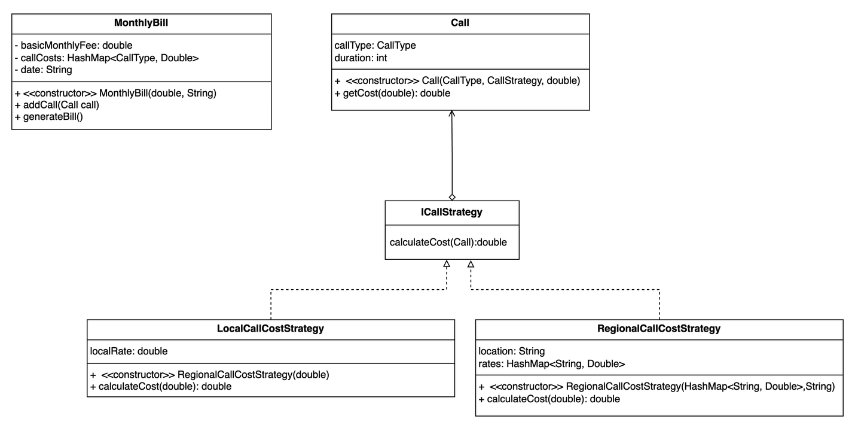
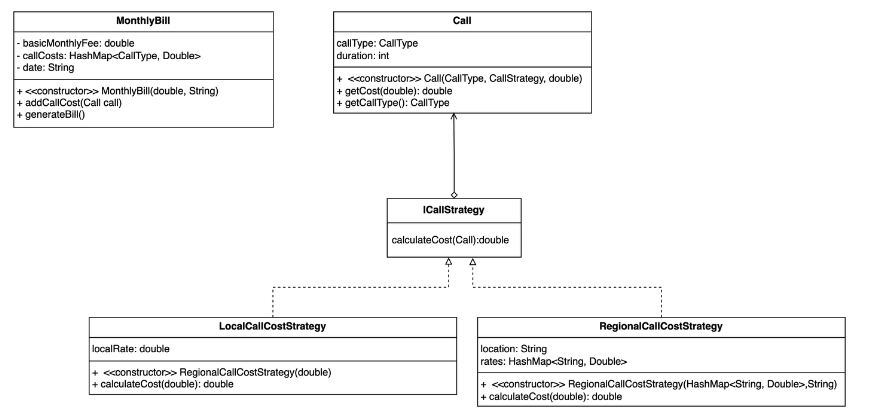
Added solution description.

diff --git a/README.md b/README.md
@@ -20,6 +20,18 @@ requerimientos:
 
 ![Uml diagram](uml.png)
 
+## Descripcion de la solución
+
+La solución propuesta se basa en el patrón de diseño strategy para calcular los costos de las llamadas telefónicas según el algoritmo que se necesite. Se separaron los tipos de llamadas en dos tipos de estrategias:
+
+- Las llamadas locales, implementadas en la clase LocalCallCostStrategy, que cubren los casos en los que para distintas franjas horarias y días se necesitan diferentes tarifas. Esta estrategia utiliza una tarifa fija que se multiplica por la duración de la llamada para calcular el costo.
+
+- Las llamadas regionales (nacionales e internacionales), implementadas en la clase RegionalCallCostStrategy, que manejan los casos en los que el costo de la llamada varía según la provincia o el país al que se llama. Esta estrategia utiliza un mapa de tarifas por región que se multiplica por la duración de la llamada para calcular el costo.
+
+Ambas estrategias implementan la interfaz ICallStrategy, que define un método calculateCost que toma la duración de la llamada y devuelve el costo de la llamada.
+
+De esta manera separamos las responsabilidades haciendo que cuando le pasamos una llamada a la factura con el metodo AddCallCost, la misma solo obtiene el tipo de llamada con el metodo getCallType para conocer a que campo atribuir el costo y finalmente al metodo getCost para que la llamada indique el costo de la misma.
+
 ## Ejecución con Docker
 
 ```
